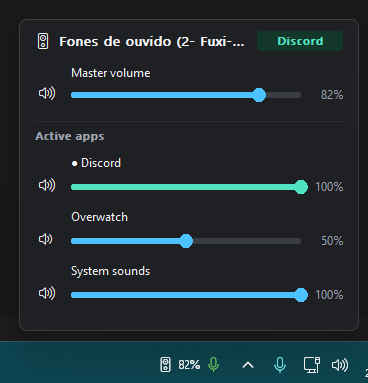
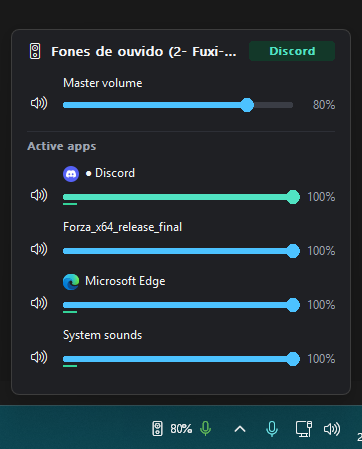
Fix CodeQL alerts and update mixer screenshot in docs

diff --git a/src/audio.rs b/src/audio.rs
@@ -11,7 +11,7 @@ use std::collections::HashMap;
 use std::ffi::c_void;
 use std::ptr::null;
 use std::sync::atomic::{AtomicU32, Ordering};
-use windows::core::{IUnknown_Vtbl, Interface, GUID, HRESULT, PCWSTR};
+use windows::core::{IUnknown, IUnknown_Vtbl, Interface, GUID, HRESULT, PCWSTR};
 use windows::Win32::Devices::FunctionDiscovery::PKEY_Device_FriendlyName;
 use windows::Win32::Foundation::{E_NOINTERFACE, E_POINTER, S_OK};
 use windows::Win32::Media::Audio::Endpoints::{
@@ -771,26 +771,19 @@ fn for_each_matching_session(session_key: &str, mut f: impl FnMut(&ISimpleAudioV
     }
 }
 
-/// Switches the default Windows audio output endpoint across Console, Multimedia, and Communications roles
+/// Switches the default Windows audio output or input endpoint across Console, Multimedia, and Communications roles
 /// using the undocumented `IPolicyConfig` COM interface (supported on Windows 7, 10, and 11).
 pub fn set_default_output_device(endpoint_id: &str) -> bool {
-    // CLSID_PolicyConfigClient: {870af99c-171d-4f9e-af0d-e63df40c2bc9}
     const CLSID_POLICY_CONFIG_CLIENT: GUID =
         GUID::from_u128(0x870af99c_171d_4f9e_af0d_e63df40c2bc9);
-    // IID_IPolicyConfig (Windows 10/11): {f8679f50-850a-41cf-9c72-430f290290c8}
-    const IID_IPOLICY_CONFIG_WIN10: GUID =
-        GUID::from_u128(0xf8679f50_850a_41cf_9c72_430f290290c8);
-    // IID_IPolicyConfigVista: {568b9108-44bf-40b4-9006-86afe5b5a620}
-    const IID_IPOLICY_CONFIG_VISTA: GUID =
-        GUID::from_u128(0x568b9108_44bf_40b4_9006_86afe5b5a620);
+
+    #[repr(transparent)]
+    #[derive(Clone)]
+    struct IPolicyConfig(IUnknown);
 
     #[repr(C)]
-    struct IPolicyConfigVtbl {
-        // IUnknown (3 methods)
-        query_interface: unsafe extern "system" fn(*mut c_void, *const GUID, *mut *mut c_void) -> HRESULT,
-        add_ref: unsafe extern "system" fn(*mut c_void) -> u32,
-        release: unsafe extern "system" fn(*mut c_void) -> u32,
-        // IPolicyConfig methods 0..9 before SetDefaultEndpoint (index 13 in vtable total)
+    struct IPolicyConfig_Vtbl {
+        base__: IUnknown_Vtbl,
         get_mix_format: *const c_void,
         get_device_format: *const c_void,
         reset_device_format: *const c_void,
@@ -804,49 +797,28 @@ pub fn set_default_output_device(endpoint_id: &str) -> bool {
         set_default_endpoint: unsafe extern "system" fn(*mut c_void, PCWSTR, i32) -> HRESULT,
     }
 
-    #[repr(C)]
-    struct IPolicyConfigRaw {
-        vtbl: *const IPolicyConfigVtbl,
+    unsafe impl Interface for IPolicyConfig {
+        type Vtable = IPolicyConfig_Vtbl;
+        const IID: GUID = GUID::from_u128(0xf8679f50_850a_41cf_9c72_430f290290c8);
     }
 
     unsafe {
-        let mut raw_ptr: *mut c_void = std::ptr::null_mut();
-        for iid in [IID_IPOLICY_CONFIG_WIN10, IID_IPOLICY_CONFIG_VISTA] {
-            if co_create_raw(&CLSID_POLICY_CONFIG_CLIENT, &iid, &mut raw_ptr) && !raw_ptr.is_null()
-            {
-                break;
-            }
-        }
-        if raw_ptr.is_null() {
+        let Ok(policy): Result<IPolicyConfig, _> =
+            CoCreateInstance(&CLSID_POLICY_CONFIG_CLIENT, None, CLSCTX_ALL)
+        else {
             return false;
-        }
-
-        let obj = raw_ptr as *mut IPolicyConfigRaw;
+        };
         let id_w = wide(endpoint_id);
         let pcw = PCWSTR(id_w.as_ptr());
 
         // eConsole = 0, eMultimedia = 1, eCommunications = 2
-        let hr0 = ((*(*obj).vtbl).set_default_endpoint)(raw_ptr, pcw, 0);
-        let _ = ((*(*obj).vtbl).set_default_endpoint)(raw_ptr, pcw, 1);
-        let _ = ((*(*obj).vtbl).set_default_endpoint)(raw_ptr, pcw, 2);
-        ((*(*obj).vtbl).release)(raw_ptr);
-
+        let vtbl = Interface::vtable(&policy);
+        let raw = Interface::as_raw(&policy);
+        let hr0 = (vtbl.set_default_endpoint)(raw, pcw, 0);
+        let _ = (vtbl.set_default_endpoint)(raw, pcw, 1);
+        let _ = (vtbl.set_default_endpoint)(raw, pcw, 2);
         hr0.is_ok()
     }
-}
-
-unsafe fn co_create_raw(clsid: *const GUID, iid: *const GUID, out: *mut *mut c_void) -> bool {
-    #[link(name = "ole32")]
-    extern "system" {
-        fn CoCreateInstance(
-            rclsid: *const GUID,
-            pUnkOuter: *mut c_void,
-            dwClsContext: u32,
-            riid: *const GUID,
-            ppv: *mut *mut c_void,
-        ) -> HRESULT;
-    }
-    CoCreateInstance(clsid, std::ptr::null_mut(), CLSCTX_ALL.0, iid, out).is_ok()
 }
 
 unsafe fn device_id(dev: &IMMDevice) -> Option<String> {
@@ -1031,7 +1003,11 @@ unsafe extern "system" fn vol_qi(
     if ppv.is_null() {
         return E_POINTER;
     }
-    if *riid == IID_IUNKNOWN || *riid == IAudioEndpointVolumeCallback::IID {
+    let Some(iid) = riid.as_ref() else {
+        *ppv = std::ptr::null_mut();
+        return E_POINTER;
+    };
+    if *iid == IID_IUNKNOWN || *iid == IAudioEndpointVolumeCallback::IID {
         *ppv = this;
         vol_add_ref(this);
         S_OK
@@ -1042,12 +1018,16 @@ unsafe extern "system" fn vol_qi(
 }
 
 unsafe extern "system" fn vol_add_ref(this: *mut c_void) -> u32 {
-    let obj = &*(this as *const RawVolumeNotify);
+    let Some(obj) = (this as *const RawVolumeNotify).as_ref() else {
+        return 0;
+    };
     obj.ref_count.fetch_add(1, Ordering::Relaxed) + 1
 }
 
 unsafe extern "system" fn vol_release(this: *mut c_void) -> u32 {
-    let obj = &*(this as *const RawVolumeNotify);
+    let Some(obj) = (this as *const RawVolumeNotify).as_ref() else {
+        return 0;
+    };
     let prev = obj.ref_count.fetch_sub(1, Ordering::Release);
     if prev == 1 {
         std::sync::atomic::fence(Ordering::Acquire);
@@ -1060,8 +1040,9 @@ unsafe extern "system" fn vol_on_notify(
     this: *mut c_void,
     _pnotify: *mut AUDIO_VOLUME_NOTIFICATION_DATA,
 ) -> HRESULT {
-    let obj = &*(this as *const RawVolumeNotify);
-    (obj.on_change)();
+    if let Some(obj) = (this as *const RawVolumeNotify).as_ref() {
+        (obj.on_change)();
+    }
     S_OK
 }
 
@@ -1102,7 +1083,11 @@ unsafe extern "system" fn dev_qi(
     if ppv.is_null() {
         return E_POINTER;
     }
-    if *riid == IID_IUNKNOWN || *riid == IMMNotificationClient::IID {
+    let Some(iid) = riid.as_ref() else {
+        *ppv = std::ptr::null_mut();
+        return E_POINTER;
+    };
+    if *iid == IID_IUNKNOWN || *iid == IMMNotificationClient::IID {
         *ppv = this;
         dev_add_ref(this);
         S_OK
@@ -1113,12 +1098,16 @@ unsafe extern "system" fn dev_qi(
 }
 
 unsafe extern "system" fn dev_add_ref(this: *mut c_void) -> u32 {
-    let obj = &*(this as *const RawDeviceNotify);
+    let Some(obj) = (this as *const RawDeviceNotify).as_ref() else {
+        return 0;
+    };
     obj.ref_count.fetch_add(1, Ordering::Relaxed) + 1
 }
 
 unsafe extern "system" fn dev_release(this: *mut c_void) -> u32 {
-    let obj = &*(this as *const RawDeviceNotify);
+    let Some(obj) = (this as *const RawDeviceNotify).as_ref() else {
+        return 0;
+    };
     let prev = obj.ref_count.fetch_sub(1, Ordering::Release);
     if prev == 1 {
         std::sync::atomic::fence(Ordering::Acquire);
@@ -1132,20 +1121,23 @@ unsafe extern "system" fn dev_state_changed(
     _pwstrdeviceid: PCWSTR,
     _dwnewstate: DEVICE_STATE,
 ) -> HRESULT {
-    let obj = &*(this as *const RawDeviceNotify);
-    (obj.on_change)();
+    if let Some(obj) = (this as *const RawDeviceNotify).as_ref() {
+        (obj.on_change)();
+    }
     S_OK
 }
 
 unsafe extern "system" fn dev_added(this: *mut c_void, _pwstrdeviceid: PCWSTR) -> HRESULT {
-    let obj = &*(this as *const RawDeviceNotify);
-    (obj.on_change)();
+    if let Some(obj) = (this as *const RawDeviceNotify).as_ref() {
+        (obj.on_change)();
+    }
     S_OK
 }
 
 unsafe extern "system" fn dev_removed(this: *mut c_void, _pwstrdeviceid: PCWSTR) -> HRESULT {
-    let obj = &*(this as *const RawDeviceNotify);
-    (obj.on_change)();
+    if let Some(obj) = (this as *const RawDeviceNotify).as_ref() {
+        (obj.on_change)();
+    }
     S_OK
 }
 
@@ -1155,8 +1147,9 @@ unsafe extern "system" fn dev_default_changed(
     _role: ERole,
     _pwstrdefaultdeviceid: PCWSTR,
 ) -> HRESULT {
-    let obj = &*(this as *const RawDeviceNotify);
-    (obj.on_change)();
+    if let Some(obj) = (this as *const RawDeviceNotify).as_ref() {
+        (obj.on_change)();
+    }
     S_OK
 }
 
